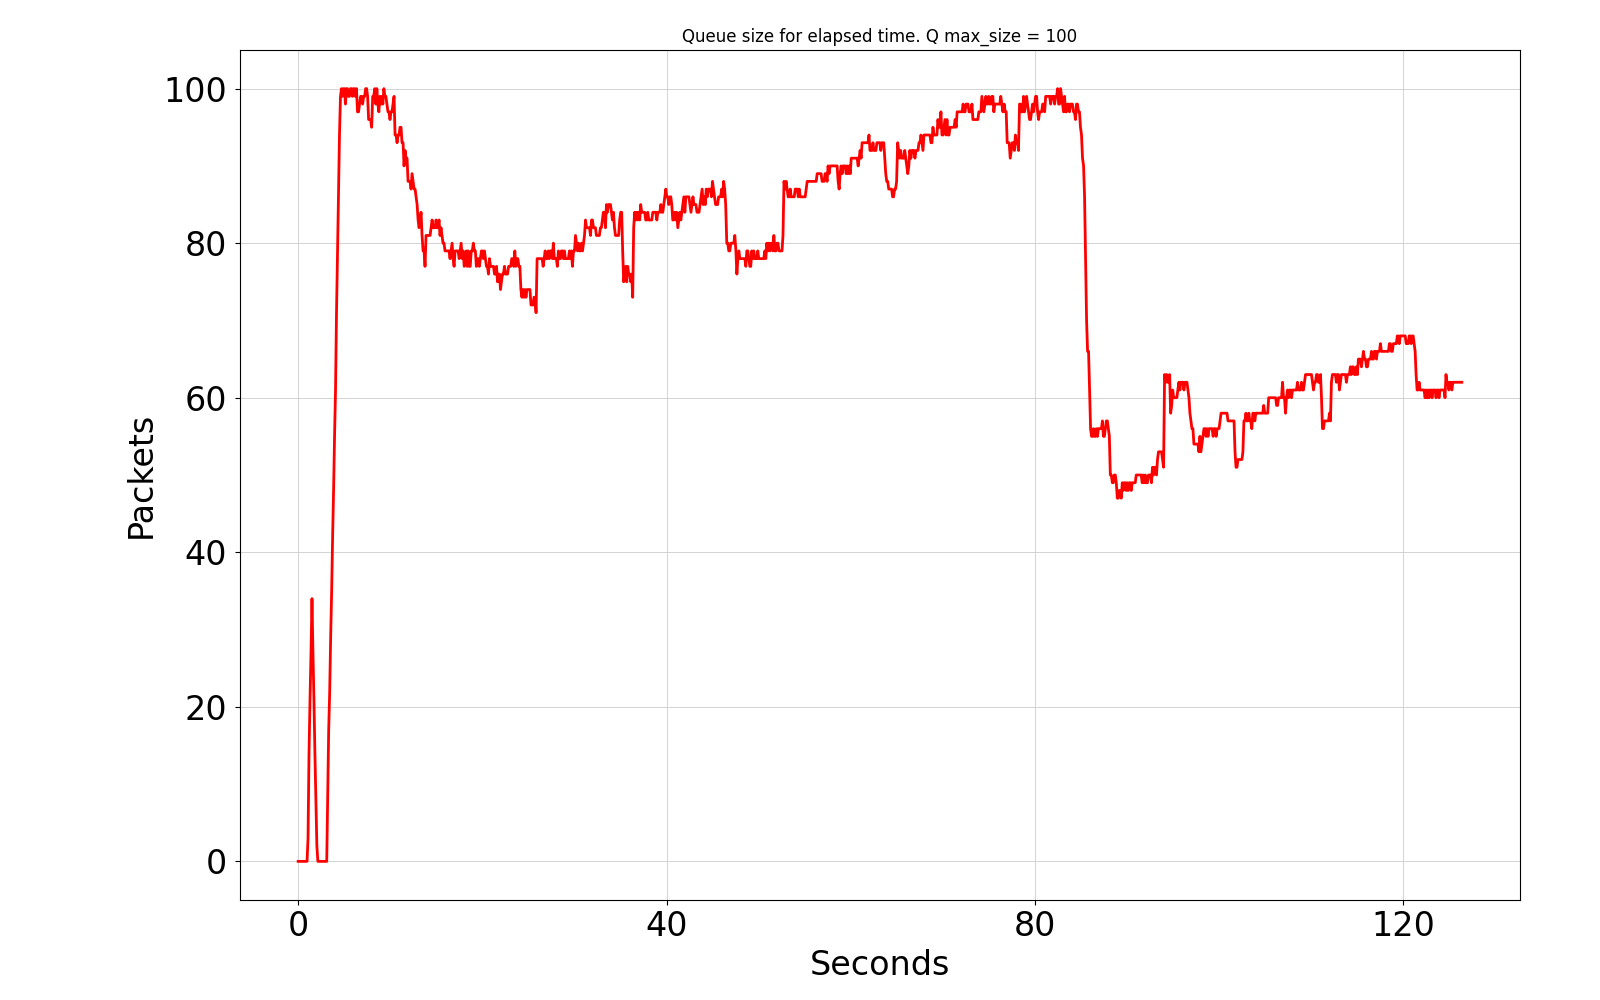
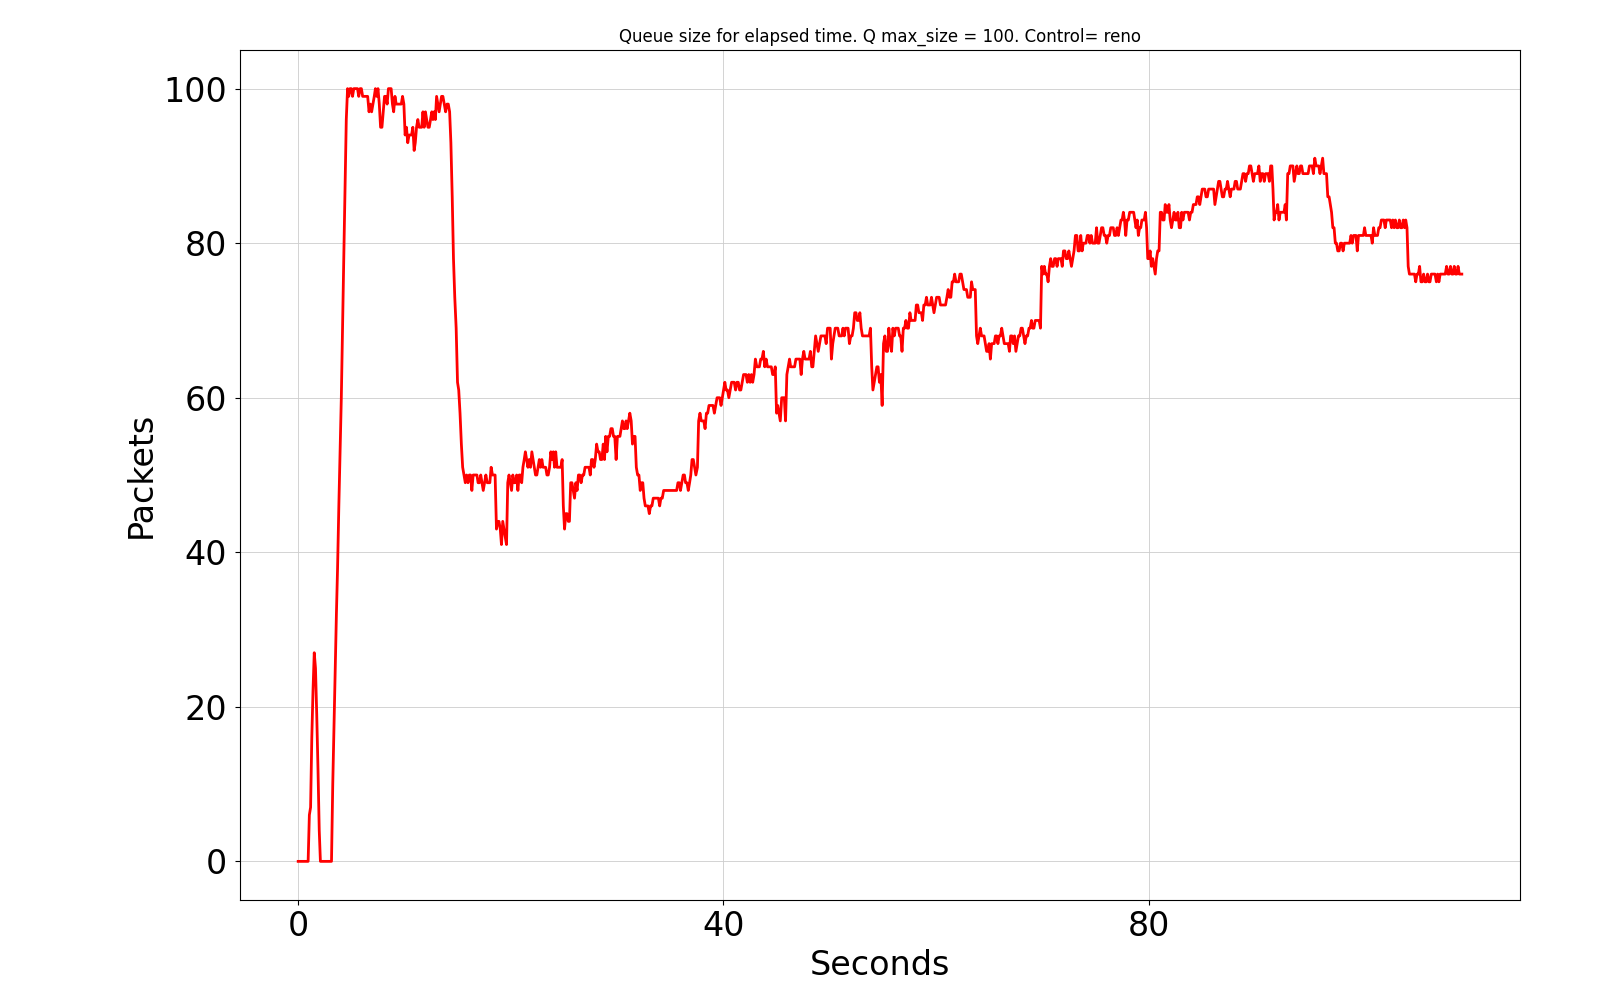
- Cria script para dados do tcp BBR - Insere tipo do controle de congestão no gráfico

diff --git a/bufferbloat/plot_ping.py b/bufferbloat/plot_ping.py
@@ -23,6 +23,10 @@ parser.add_argument('--out', '-o',
                     help="Output png file for the plot.",
                     default=None) # Will show the plot
 
+parser.add_argument('--cong',
+                    help="congestion control algorith used.",
+                    default=None,
+                    required=True)
 args = parser.parse_args()
 
 def parse_ping(fname):
@@ -62,7 +66,7 @@ plt.ylabel("RTT (ms)")
 plt.grid(True)
 if args.out:
     qsize = args.out.split('q')[1].split('.')[0]
-    plt.title(f"RTT for elapsed time. Q max size = {qsize}")
+    plt.title(f"RTT for elapsed time. Q max size = {qsize}. Control= {args.cong}")
     plt.savefig(args.out)
 else:
     plt.show()

diff --git a/bufferbloat/plot_queue.py b/bufferbloat/plot_queue.py
@@ -40,6 +40,11 @@ parser.add_argument('--every',
                     default=1,
                     type=int)
 
+parser.add_argument('--cong',
+                    help="congestion control algorith used.",
+                    default=None,
+                    required=True)
+
 args = parser.parse_args()
 
 if args.legend is None:
@@ -75,7 +80,7 @@ plt.xlabel("Seconds")
 
 if args.out:
     qsize = args.out.split('q')[1].split('.')[0]
-    plt.title(f"Queue size for elapsed time. Q max_size = {qsize}")
+    plt.title(f"Queue size for elapsed time. Q max_size = {qsize}. Control= {args.cong}")
     print('saving to', args.out)
     plt.savefig(args.out)
 else:
